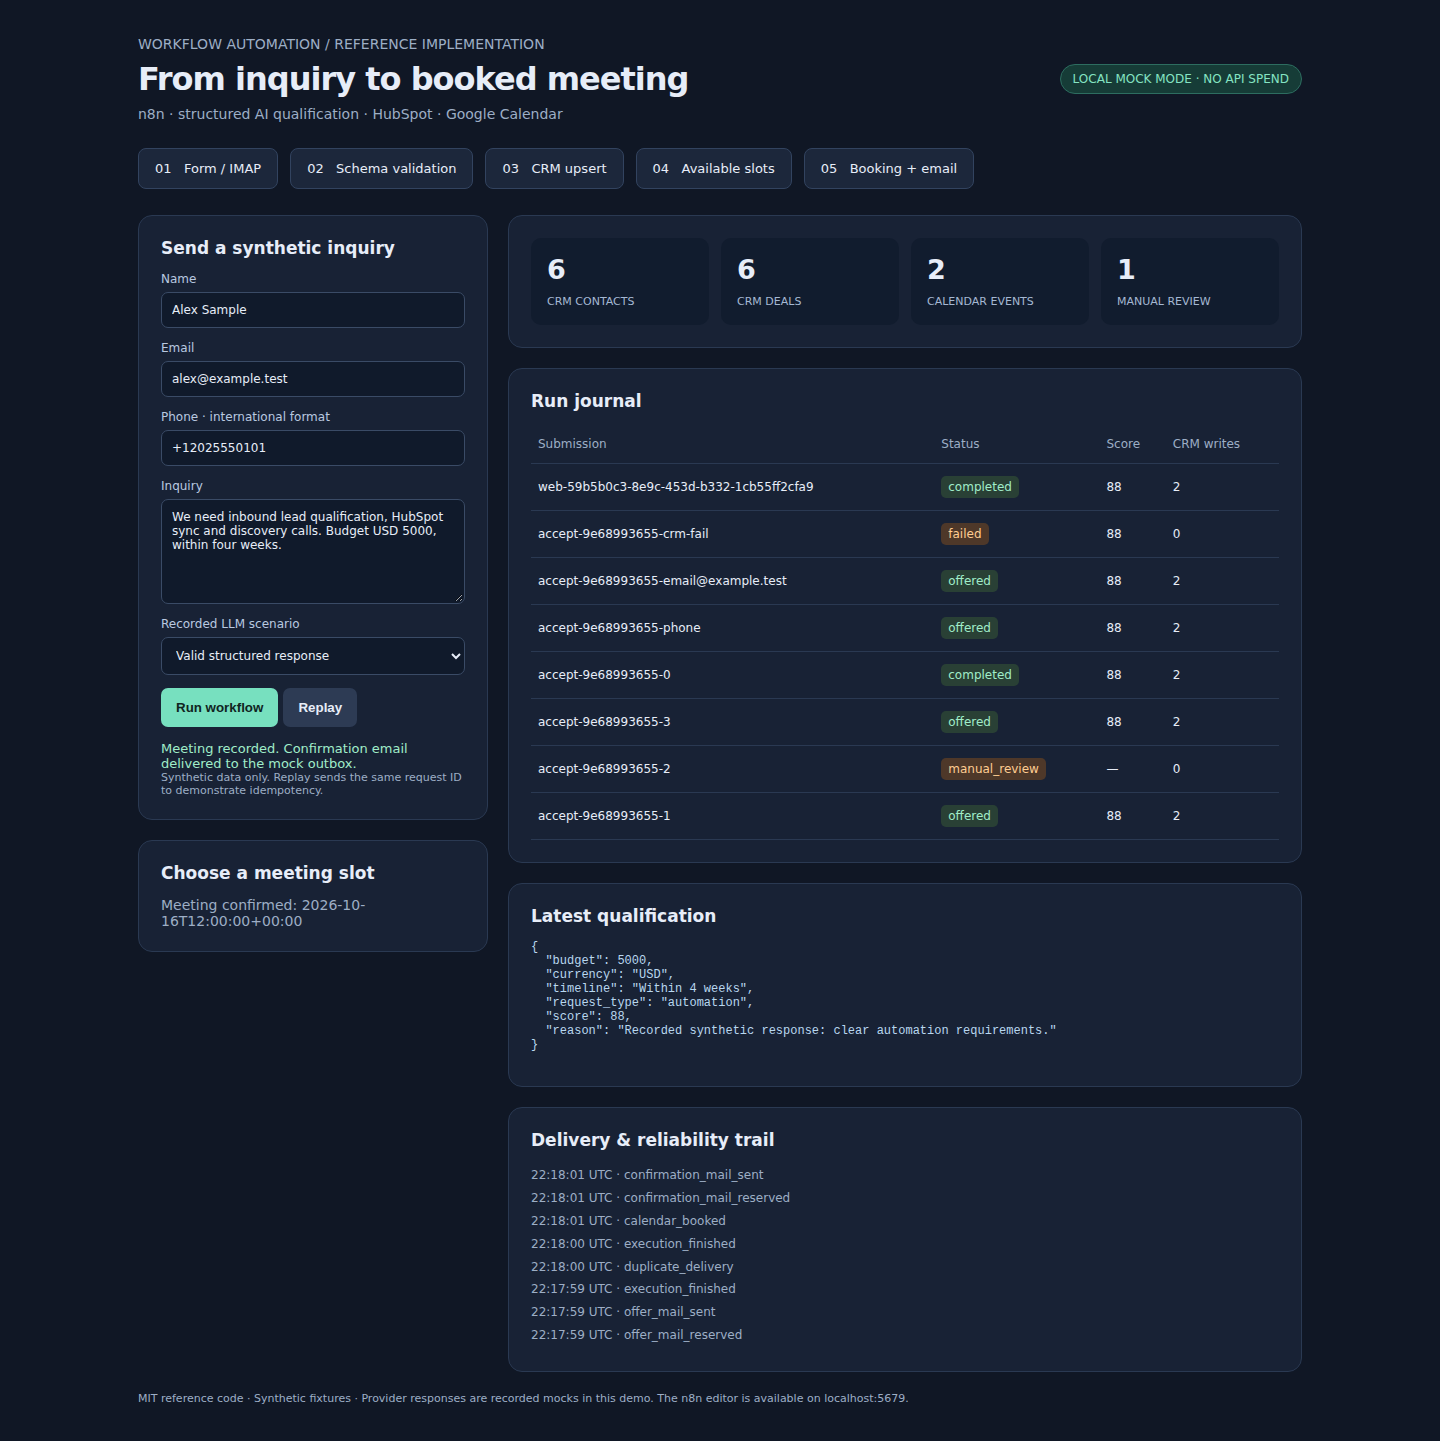
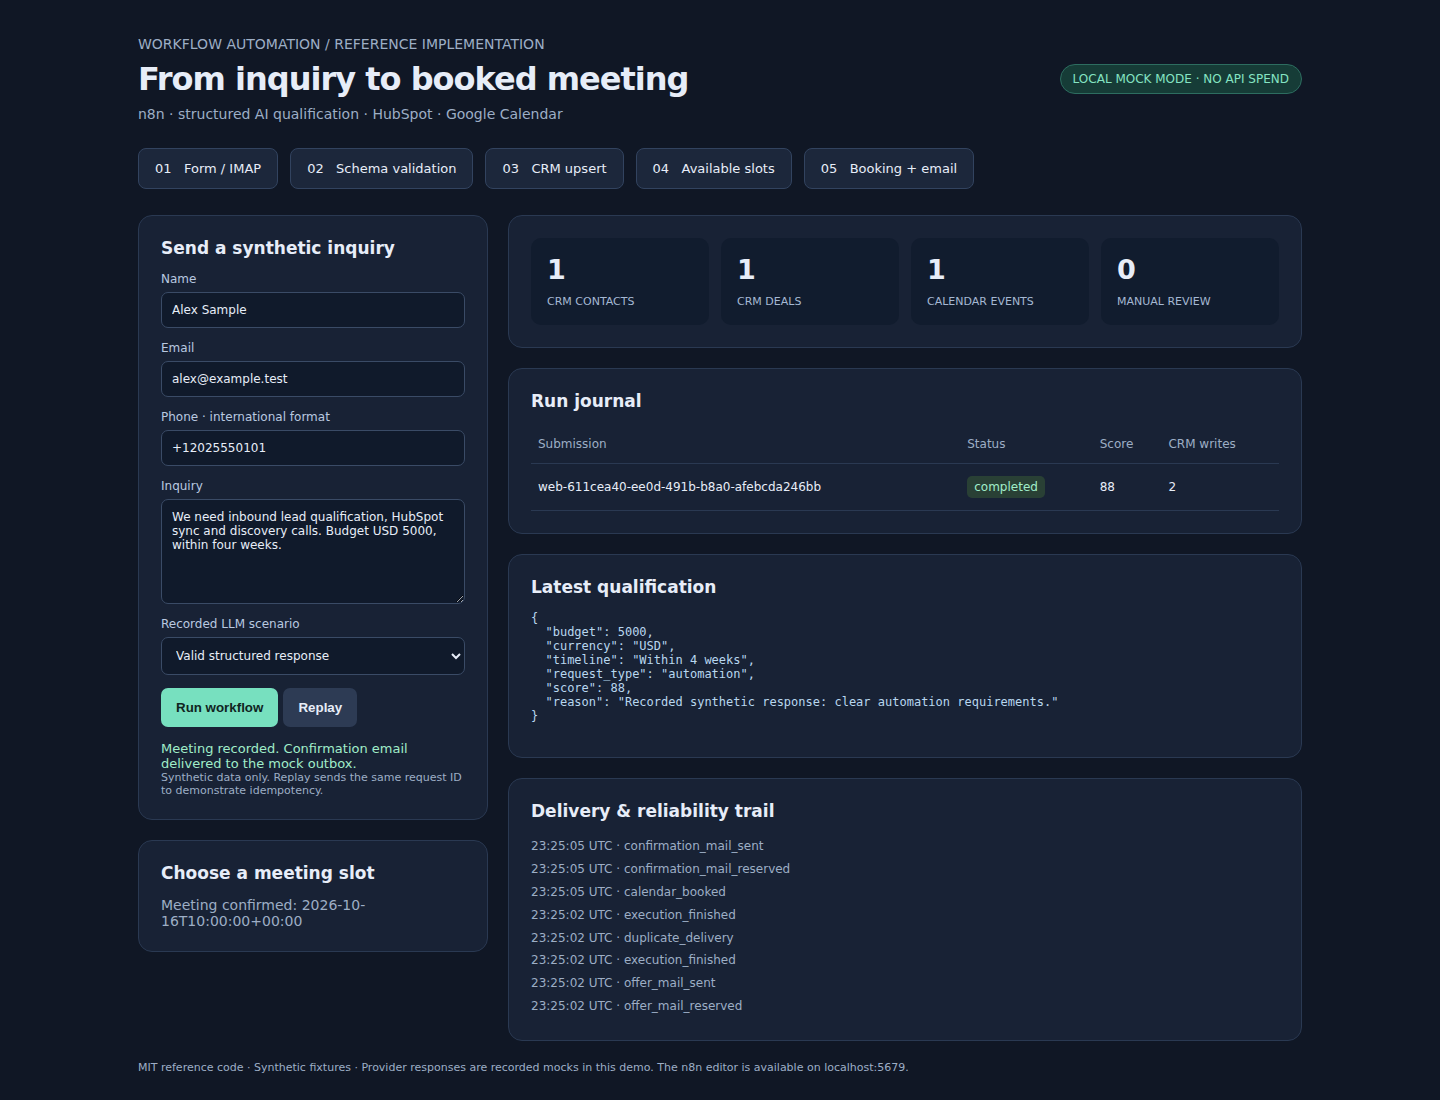
Verify expiry and output wire bounds with a real browser demo

diff --git a/tests/test_acceptance_contracts.py b/tests/test_acceptance_contracts.py
@@ -494,3 +494,97 @@ def test_retry_after_is_bounded_and_invalid_value_falls_back(
     finally:
         adapter.client.close()
     assert waits == ([1, 2] if expected_wait is None else [expected_wait, expected_wait])
+
+
+@pytest.mark.parametrize("elapsed_delta,expected", [(-1, 200), (0, 410), (1, 410)])
+def test_offer_expiry_exact_boundary_with_timezone_offset(clients, monkeypatch, elapsed_delta, expected):
+    from datetime import timezone
+
+    client, remote = clients
+    run = pipeline(client)
+    fixed = datetime.now(UTC)
+
+    class Clock(datetime):
+        @classmethod
+        def now(cls, tz=None):
+            return fixed.astimezone(tz)
+
+    monkeypatch.setattr(main, "datetime", Clock)
+    with db.transaction() as session:
+        row = db.get_run(session, run["run_id"])
+        offered = (fixed - timedelta(days=7, seconds=elapsed_delta)).astimezone(timezone(timedelta(hours=4)))
+        db.save(session, row, {**row.data, "offered_at": offered.isoformat()}, "boundary")
+    response = client.get(
+        "/public/offer", params={"run_id": run["run_id"]}, headers={"X-Booking-Token": run["booking_token"]}
+    )
+    assert response.status_code == expected
+    response = client.post(
+        "/api/book", json={"run_id": run["run_id"], "token": run["booking_token"], "slot": run["slots"][0]}
+    )
+    assert response.status_code == expected
+    assert len(remote.get("/state").json()["events"]) == int(expected == 200)
+
+
+@pytest.mark.parametrize("remaining,expected", [(1, "sending"), (0, "uncertain"), (-1, "uncertain")])
+def test_mail_reservation_expiry_exact_boundary_never_resends(clients, monkeypatch, remaining, expected):
+    client, remote = clients
+    run = pipeline(client)
+    fixed = datetime.now(UTC)
+
+    class Clock(datetime):
+        @classmethod
+        def now(cls, tz=None):
+            return fixed.astimezone(tz)
+
+    monkeypatch.setattr(main, "datetime", Clock)
+    with db.transaction() as session:
+        row = db.get_run(session, run["run_id"])
+        db.save(
+            session,
+            row,
+            {
+                **row.data,
+                "offer_mail": "sending",
+                "status": "slots_ready",
+                "offer_reservation": {
+                    "id": "synthetic-owner",
+                    "expires_at": (fixed + timedelta(seconds=remaining)).isoformat(),
+                },
+            },
+            "boundary",
+        )
+    before = len(remote.get("/state").json()["mail"])
+    result = main.send_email(run["run_id"], "offer")
+    assert result["offer_mail"] == expected
+    assert len(remote.get("/state").json()["mail"]) == before
+    if remaining > 0:
+        assert result["operation_status"] == "in_progress"
+    else:
+        assert result["status"] == "manual_review"
+
+
+@pytest.mark.parametrize(
+    "endpoint",
+    [
+        "https://external.invalid/v1/traces",
+        "http://identity@localhost/v1/traces",
+        "http://:PRIVATE_ENDPOINT_SENTINEL@localhost/v1/traces",
+        "http://localhost/v1/traces?token=PRIVATE_ENDPOINT_SENTINEL",
+        "http://localhost/v1/traces#token=PRIVATE_ENDPOINT_SENTINEL",
+        "file://localhost/v1/traces",
+    ],
+)
+def test_exporter_rejects_remote_userinfo_token_urls_and_non_http_before_io(endpoint):
+    import os
+    import subprocess
+    import sys
+
+    result = subprocess.run(
+        [sys.executable, "-c", "import app.telemetry"],
+        env={**os.environ, "OTEL_EXPORTER_OTLP_TRACES_ENDPOINT": endpoint},
+        capture_output=True,
+        text=True,
+    )
+    assert result.returncode != 0
+    assert "Telemetry exporter must be a local endpoint" in result.stderr
+    assert "PRIVATE_ENDPOINT_SENTINEL" not in result.stdout + result.stderr

diff --git a/tests/test_postgres_contracts.py b/tests/test_postgres_contracts.py
@@ -8,6 +8,8 @@ import multiprocessing
 import os
 import smtplib
 import socketserver
+import subprocess
+import sys
 import uuid
 from concurrent.futures import ThreadPoolExecutor
 from datetime import UTC, datetime, timedelta
@@ -16,6 +18,7 @@ from threading import Event
 
 import pytest
 from sqlalchemy import create_engine, select, text
+from sqlalchemy.engine import make_url
 from sqlalchemy.orm import Session
 
 from app import db, llm_budget, main
@@ -254,13 +257,36 @@ def test_smtp_physical_send_owner_cas_across_processes(postgres, monkeypatch, la
                                 run,
                                 {
                                     **run.data,
-                                    "offer_mail": "sent" if resolution == "delivered" else "uncertain",
+                                    "offer_mail": "uncertain",
                                     "status": "booked",
+                                    "done": [*run.data["done"], "book"],
                                     "booked_slot": "preserve-later-booking",
                                     "offer_reservation": {"id": "operator-reconciled"},
                                 },
                                 "reconciled",
                             )
+                        if resolution == "delivered":
+                            database_url = (
+                                make_url(postgres[0])
+                                .update_query_dict({"options": "-csearch_path=" + postgres[1]})
+                                .render_as_string(hide_password=False)
+                            )
+                            reconciled = subprocess.run(
+                                [
+                                    sys.executable,
+                                    "-m",
+                                    "scripts.reconcile_mail",
+                                    run_id,
+                                    "offer",
+                                    "--verified-delivered",
+                                ],
+                                env={**os.environ, "DATABASE_URL": database_url},
+                                capture_output=True,
+                                text=True,
+                                timeout=10,
+                            )
+                            assert reconciled.returncode == 0
+                            assert "no send performed" in reconciled.stdout
             finally:
                 release.set()
             outcome = results.get(timeout=15)

diff --git a/tests/test_evaluation_commands.py b/tests/test_evaluation_commands.py
@@ -147,3 +147,59 @@ def test_dependency_audit_findings_and_tool_errors_fail(monkeypatch, tmp_path, e
     assert stopped.value.code != 0
     assert len(commands) == 2
     assert {command[command.index("-r") + 1] for command in commands} == set(audit_dependencies.LOCKS)
+
+
+@pytest.mark.parametrize("provider", ["anthropic", "openai-compatible"])
+@pytest.mark.parametrize("purpose", ["generation", "judge"])
+def test_optional_commands_enforce_configured_output_cap_on_physical_wire(
+    cli, monkeypatch, provider, purpose
+):
+    directory, calls, _, arguments = cli
+    monkeypatch.setenv("LLM_MAX_OUTPUT_TOKENS", "137")
+    monkeypatch.setenv("LLM_BASE_URL", "https://synthetic.invalid/v1")
+    source = directory / "wire-input.json"
+    if purpose == "generation":
+        source.write_text(json.dumps(json.loads(Path("evals/cases.json").read_text())[:1]))
+        raw = json.dumps(QUALIFICATION)
+        command, input_flag = live.main, "--dataset"
+    else:
+        source.write_text(
+            json.dumps(
+                {
+                    "results": [
+                        {"id": "E01", "inquiry": "Synthetic n8n inquiry", "qualification": QUALIFICATION}
+                    ]
+                }
+            )
+        )
+        raw = json.dumps(
+            {
+                "relevance": 2,
+                "grounding": 2,
+                "calibration": 2,
+                "evidence": "Synthetic inquiry evidence",
+                "invented_budget_or_identity": False,
+            }
+        )
+        command, input_flag = judge.main, "--results"
+
+    def transport(request):
+        calls.append(request)
+        envelope = (
+            {"content": [{"type": "text", "text": raw}]}
+            if provider == "anthropic"
+            else {"choices": [{"message": {"content": raw}}]}
+        )
+        return httpx.Response(200, json=envelope)
+
+    monkeypatch.setattr(Providers, "client", httpx.Client(transport=httpx.MockTransport(transport)))
+    args = arguments()
+    args[args.index("--provider") + 1] = provider
+    with pytest.raises(SystemExit) as stopped:
+        command(args + [input_flag, str(source)])
+    assert stopped.value.code == 0
+    assert len(calls) == 1
+    sent = json.loads(calls[0].content)
+    assert sent["max_tokens"] == 137
+    assert sent["model"] == "synthetic"
+    assert "tools" not in sent

diff --git a/tests/test_live_contracts.py b/tests/test_live_contracts.py
@@ -29,6 +29,7 @@ def test_mock_ignores_empty_live_credential_but_live_rejects_it(monkeypatch):
 def test_anthropic_live_contract_without_network(monkeypatch, respx_mock):
     monkeypatch.setenv("INTEGRATION_MODE", "live")
     monkeypatch.setenv("LLM_PROVIDER", "anthropic")
+    monkeypatch.setenv("LLM_MAX_OUTPUT_TOKENS", "137")
     monkeypatch.setenv("LLM_MODEL", "operator-selected-model")
     monkeypatch.setenv("LLM_API_KEY", "synthetic-test-value")
     route = respx_mock.post("https://api.anthropic.com/v1/messages").mock(
@@ -45,6 +46,7 @@ def test_anthropic_live_contract_without_network(monkeypatch, respx_mock):
         request = json.loads(route.calls[0].request.content)
         assert request["output_config"]["format"]["type"] == "json_schema"
         assert request["model"] == "operator-selected-model"
+        assert request["max_tokens"] == 137
         assert '"scenario"' not in request["messages"][0]["content"]
         assert request["output_config"]["format"]["schema"]["additionalProperties"] is False
         assert "minimum" not in json.dumps(request["output_config"]["format"]["schema"])
@@ -55,6 +57,7 @@ def test_anthropic_live_contract_without_network(monkeypatch, respx_mock):
 def test_openai_compatible_provider_contract(monkeypatch, respx_mock):
     monkeypatch.setenv("INTEGRATION_MODE", "live")
     monkeypatch.setenv("LLM_PROVIDER", "openai-compatible")
+    monkeypatch.setenv("LLM_MAX_OUTPUT_TOKENS", "137")
     monkeypatch.setenv("LLM_MODEL", "operator-selected-model")
     monkeypatch.setenv("LLM_BASE_URL", "https://provider.invalid/v1")
     monkeypatch.setenv("LLM_API_KEY", "synthetic-test-value")
@@ -66,6 +69,7 @@ def test_openai_compatible_provider_contract(monkeypatch, respx_mock):
         assert adapter.qualify({"message": "Synthetic lead"}) == "{}"
         sent = json.loads(route.calls[0].request.content)
         assert sent["response_format"]["json_schema"]["strict"] is True
+        assert sent["max_tokens"] == 137
         assert (
             sent["response_format"]["json_schema"]["schema"]["required"]
             == (Qualification.model_json_schema()["required"])

diff --git a/app/main.py b/app/main.py
@@ -313,7 +313,7 @@ def book(body: Booking):
         if (data["status"] != "offered" and not retrying_booking) or body.slot not in data.get("slots", []):
             raise HTTPException(409, "Slot was not offered")
         if parse_time(body.slot) <= datetime.now(UTC) or (
-            datetime.now(UTC) - parse_time(data["offered_at"]) > timedelta(days=7)
+            datetime.now(UTC) - parse_time(data["offered_at"]) >= timedelta(days=7)
         ):
             raise HTTPException(410, "Offer expired")
         # A deterministic remote ID and the transaction lock protect concurrent/redelivered bookings.
@@ -456,7 +456,9 @@ def public_offer(run_id: str, x_booking_token: str = Header(default="")):
         data = run.data
         if not hmac.compare_digest(data["booking_token"], x_booking_token):
             raise HTTPException(403, "Invalid booking token")
-        if "offered_at" not in data or datetime.now(UTC) - parse_time(data["offered_at"]) > timedelta(days=7):
+        if "offered_at" not in data or datetime.now(UTC) - parse_time(data["offered_at"]) >= timedelta(
+            days=7
+        ):
             raise HTTPException(410, "Offer unavailable or expired")
         return {
             "status": data["status"],

diff --git a/app/telemetry/__init__.py b/app/telemetry/__init__.py
@@ -20,7 +20,14 @@ if endpoint:
     from opentelemetry.exporter.otlp.proto.http.trace_exporter import OTLPSpanExporter
 
     parsed = urlparse(endpoint)
-    if parsed.hostname not in {"localhost", "127.0.0.1", "phoenix"} or parsed.username or parsed.query:
+    if (
+        parsed.scheme not in {"http", "https"}
+        or parsed.hostname not in {"localhost", "127.0.0.1", "phoenix"}
+        or parsed.username is not None
+        or parsed.password is not None
+        or parsed.query
+        or parsed.fragment
+    ):
         raise RuntimeError("Telemetry exporter must be a local endpoint without credentials/query")
     provider.add_span_processor(BatchSpanProcessor(OTLPSpanExporter(endpoint=endpoint)))
 tracer = provider.get_tracer("lead-to-meeting", "1")

diff --git a/tests/test_pipeline.py b/tests/test_pipeline.py
@@ -28,7 +28,7 @@ def pipeline(client, payload=None):
     return response.json()
 
 
-def test_end_to_end_with_replay_booking_and_email(clients):
+def test_service_flow_with_replay_booking_and_email(clients):
     client, remote = clients
     first = pipeline(client)
     assert first["status"] == "offered"

diff --git a/docs/VERIFICATION.md b/docs/VERIFICATION.md
@@ -66,7 +66,7 @@ HTTP doubles establish provider wire contracts, not a live service certification
 | CRM process serialization | `test_postgres_contracts.py::test_two_process_crm_replay_one_contact_deal_and_association`; two app processes, real Postgres and loopback HTTP provider |
 | Qualification schema, repair, routing, limits | `test_pipeline.py`, `test_acceptance_contracts.py`, `evals.run`; actual parser/routes/accounting with synthetic raw HTTP responses |
 | Booking and recipient page | token/expiry/slot negatives in fast tests; real n8n booking and Chromium recipient-link navigation in `capture_demo.py` |
-| SMTP reservation ownership | PostgreSQL process tests pause a loopback SMTP server after DATA, race active duplicates, expire ownership, and release success/failure after reconciliation; one physical DATA per schedule |
+| SMTP reservation ownership | PostgreSQL process tests pause a loopback SMTP server after DATA, race active duplicates, expire ownership, and release success/failure after reconciliation; one physical DATA per schedule, with the verified-delivery reconciliation CLI exercised before late completion |
 | Error workflow and independent monitor | `verify_demo.py`; actual n8n Error Trigger, scheduled stale-run discovery without direct monitor invocation, captured alert double |
 | Retained limits, admission before I/O, crash | PostgreSQL tests observe committed reservations from an independent connection at actual loopback HTTP arrival; lost acknowledgement + nested retry + repair + restarted caller; process exit after admission retains charge |
 | Usage and observability | exact/unknown usage PostgreSQL tests, in-memory span parentage/privacy; `verify_phoenix.py` configures the actual app and validates received run/child spans in real Phoenix |

diff --git a/docs/OPERATIONS.md b/docs/OPERATIONS.md
@@ -11,6 +11,9 @@ attempt ledger before making any operator decision. Each physical request consum
 reservation; a missing outcome is ambiguous and remains charged. Never delete/reset budgets to retry
 an unresolved request. The read-only private state endpoint shows per-attempt accounting.
 
+Booking offers expire at exactly seven days after issuance (UTC, including the expiry instant);
+timezone offsets are normalized before comparison.
+
 Mail stores a reservation ID and expiry before SMTP. Active duplicate callers neither send nor
 mark uncertainty. Expiry/failure transitions to uncertain/manual review, without automatic resend.
 The monitor also expires old mail reservations. Late successes/failures append event evidence and
